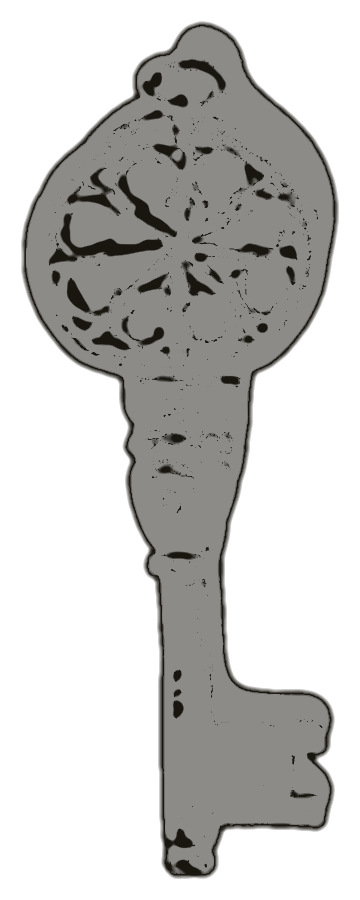
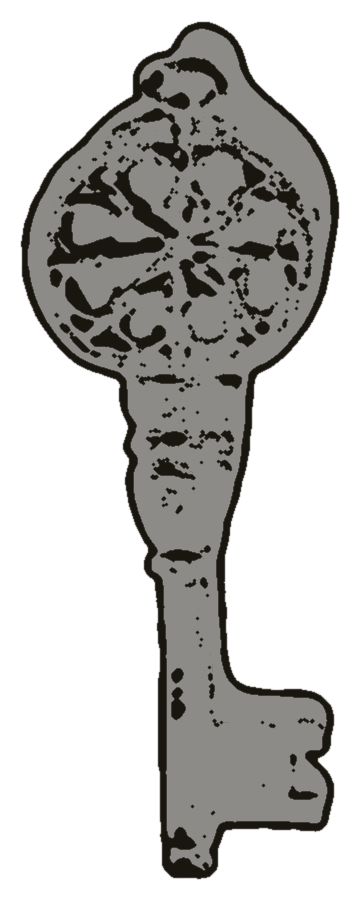
Grimorio, llaves y daga con trazo mas grueso

Changed region(s): [[0.0611, 0.0, 0.9472, 0.9956], [0.7028, 0.0933, 0.7944, 0.1244], [0.5194, 0.5289, 0.55, 0.56]]

diff --git a/docs/ROADMAP.md b/docs/ROADMAP.md
@@ -143,3 +143,4 @@ Objetivo: ver `develop` en una URL de vista previa y `main` en `arcanasacra.net`
 | 2026-11-27 | portada | Claude | Grimorio: cubierta abre mas lenta (2,3 s), 8 hojas pasan en cascada que frena, hojas enteras sin tiras (antes salian dobladas raras); grimorio y bola 4 con alto contraste a dos tonos (umbral local, `scripts/high-contrast.mjs`); bola roja con textura del cuarzo de la bola 3; sangre con gotas irregulares. Bola 3/4 de prueba (?ball=4) con origen Pinterest sin confirmar. |
 | 2026-11-27 | portada | Claude + image-alchemist | Murcielago nuevo: posado en el marco de Elvira (Specht, Brehms Tierleben 1911, PD), al pulsarlo vuela (Haeckel, Kunstformen der Natur, Chiroptera, PD) fuera de pantalla y vuelve a posarse a los 20-40 s. Retirado el murcielago que cruzaba. Falta anadir creditos de Haeckel/Specht al pie y LICENCIAS.md. |
 | 2026-11-27 | portada | Claude | Bola roja (4) fija por defecto (`?ball=3` para la 3); apuntados pendientes P.1-P.5 para la siguiente sesion. |
+| 2026-11-27 | portada | Claude | Grimorio, llaves y daga con trazo mas grueso (`scripts/thicken.mjs`: dilata el contorno; originales en git). Dia: contorno fuerte +2 px; noche: +1 px. |
